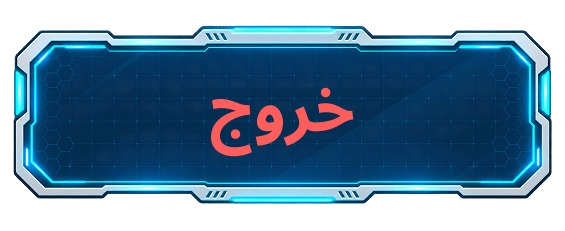
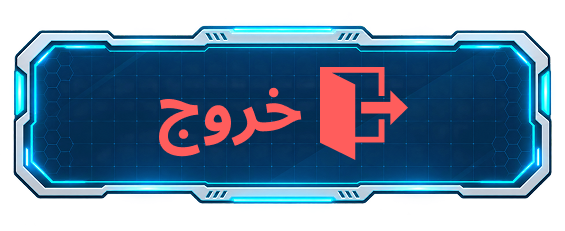
Keep welcome actions together on small screens

diff --git a/src/components/WelcomeScreen.css b/src/components/WelcomeScreen.css
@@ -194,3 +194,20 @@
     height: clamp(50px, 8vw, 65px);
   }
 }
+
+@media (max-width: 950px) {
+  .welcome-footer {
+    flex-wrap: nowrap;
+    gap: clamp(8px, 3vw, 18px);
+    padding-inline: 8px;
+    margin-bottom: max(12px, env(safe-area-inset-bottom));
+  }
+  .welcome-action-button {
+    width: clamp(112px, 38vw, 190px);
+    min-width: 0;
+    height: auto;
+    aspect-ratio: 565 / 231;
+    flex: 0 1 190px;
+  }
+  .welcome-action-button img { object-fit: contain; }
+}
